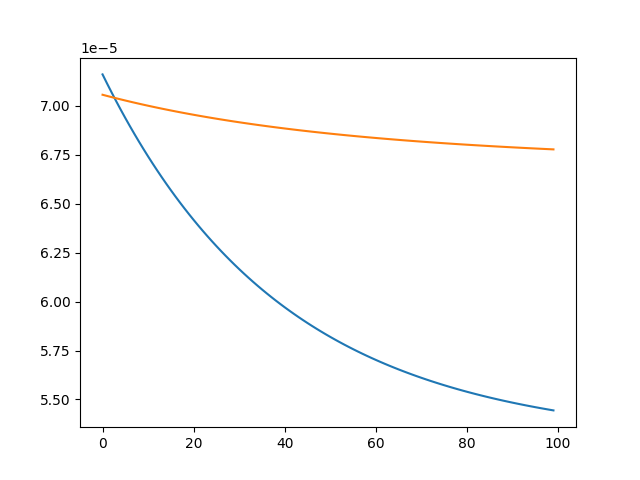
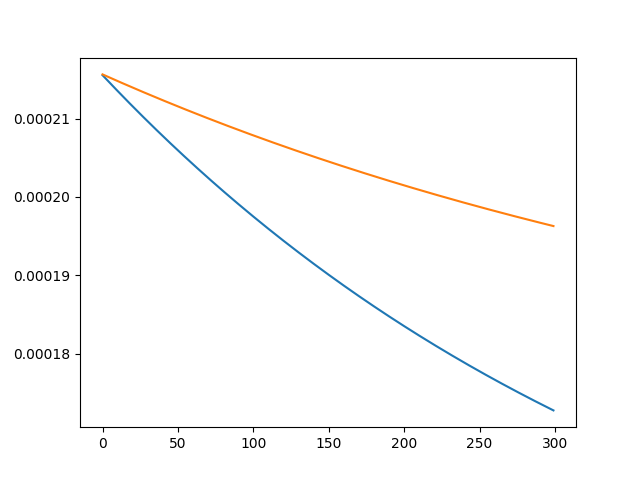
Attemped training #2

diff --git a/main.py b/main.py
@@ -32,7 +32,7 @@ MAX_AMP = 1
 # Fourier Offset - ensure that each sample subject to a fourier transform
 # transitions smoothly from the previous
 # (update to be 1/8 of sample size)
-GLOBAL_SAMP_SIZE = int(0.08 * 44100)
+GLOBAL_SAMP_SIZE = int(0.25 * 44100)
 merge = GLOBAL_SAMP_SIZE//2
 f_offset = GLOBAL_SAMP_SIZE - merge
 
@@ -192,81 +192,78 @@ def train():
     # Take in audio as input
     # getAudio (file/live = 0/1, fname)
     model = ""
-    for i in range(1, 4):
-        infname = "training/Raph_Nash_{0}.wav".format(i)
-        outfname = "training/Boris_Johnson_{0}.wav".format(i)
-        print("Getting comparable input audio")
-        t1 = time.time()
-        indata, samp_rate_input, params_in = getAudio(0, infname)
-        t2 = time.time()
-        print("Audio taken in: {0}s".format(t2 - t1))
+    infname = "training/Raph_Nash_3.wav"
+    outfname = "training/Boris_Johnson_3.wav"
+    print("Getting comparable input audio")
+    t1 = time.time()
+    indata, samp_rate_input, params_in = getAudio(0, infname)
+    t2 = time.time()
+    print("Audio taken in: {0}s".format(t2 - t1))
 
-        # Take in compared output
-        print("Getting comparable output audio")
-        t1 = time.time()
-        newvoicedata, samp_rate_newvoice, params_newvoice = getAudio(0, outfname)
-        t2 = time.time()
-        print("Audio taken in: {0}s".format(t2 - t1))
+    # Take in compared output
+    print("Getting comparable output audio")
+    t1 = time.time()
+    #newvoicedata, samp_rate_newvoice, params_newvoice = getAudio(0, outfname)
+    t2 = time.time()
+    print("Audio taken in: {0}s".format(t2 - t1))
 
-        samp_size = GLOBAL_SAMP_SIZE
+    samp_size = GLOBAL_SAMP_SIZE
 
-        print("####################################")
-        print("Input audio len (frames): {0}".format(len(indata)))
-        print("Output audio len (frames): {0}".format(len(newvoicedata)))
-        print("####################################")
+    print("####################################")
+    print("Input audio len (frames): {0}".format(len(indata)))
+    #print("Output audio len (frames): {0}".format(len(newvoicedata)))
+    print("####################################")
 
-        print("Processing 'input' audio")
-        t1 = time.time()
-        infdata = process(indata, samp_size)
-        t2 = time.time()
-        print("Input audio processed in {0}s".format(t2 - t1))
+    print("Processing 'input' audio")
+    t1 = time.time()
+    infdata = process(indata, samp_size)
+    t2 = time.time()
+    print("Input audio processed in {0}s".format(t2 - t1))
 
-        print("Processing 'output' audio")
-        t1 = time.time()
-        newvoicefdata = process(newvoicedata, samp_size)
-        t2 = time.time()
-        print("Output audio processed in {0}s".format(t2 - t1))
+    print("Processing 'output' audio")
+    t1 = time.time()
+    #newvoicefdata = process(newvoicedata, samp_size)
+    t2 = time.time()
+    print("Output audio processed in {0}s".format(t2 - t1))
 
-        print("####################################")
-        print("Input frequency samples len: {0}".format(len(infdata)))
-        print("Output frequency samples len: {0}".format(len(newvoicefdata)))
-        print("####################################")
+    print("####################################")
+    print("Input frequency samples len: {0}".format(len(infdata)))
+    #print("Output frequency samples len: {0}".format(len(newvoicefdata)))
+    print("####################################")
 
-        print("Normalizing input data (to avoid overflows)")
-        t1 = time.time()
-        infdata = infdata/np.linalg.norm(infdata)
-        t2 = time.time()
-        print("Done: {0}s".format(t2 - t1))
+    print("Normalizing input data (to avoid overflows)")
+    t1 = time.time()
+    norm = np.linalg.norm(infdata)
+    infdata = infdata/norm
+    t2 = time.time()
+    print("Done: {0}s".format(t2 - t1))
 
-        print("Normalizing output data (to avoid overflows)")
-        t1 = time.time()
-        norm = np.linalg.norm(newvoicefdata)
-        newvoicefdata = newvoicefdata/np.linalg.norm(newvoicefdata)
-        t2 = time.time()
-        print("Done: {0}s".format(t2 - t1))
+    print("Normalizing output data (to avoid overflows)")
+    t1 = time.time()
+    #norm = np.linalg.norm(newvoicefdata)
+    #newvoicefdata = newvoicefdata/np.linalg.norm(newvoicefdata)
+    t2 = time.time()
+    print("Done: {0}s".format(t2 - t1))
 
-        print("input vector size: {0}".format(infdata.shape[0]))
-        print("output vector size: {0}".format(newvoicefdata.shape[0]))
+    print("input vector size: {0}".format(infdata.shape[0]))
+    #print("output vector size: {0}".format(newvoicefdata.shape[0]))
 
-        print("Commencing RNN training")
-        internals = newvoicefdata.shape[0]
-        if(i == 1):
-            model = LSTM(newvoicefdata.shape[0], newvoicefdata.shape[0], [internals], [internals], [internals], [internals])
+    print("Commencing RNN training")
+    internals = infdata.shape[0]
+    model = LSTM(internals, internals, [internals], [internals], [internals], [internals])
 
-        """
-        if(os.path.exists("boris_params.txt") and i == 1):
+    if(os.path.exists("boris_params.txt")):
         model.load_parameters("boris_params.txt")
-        """
 
-        t1 = time.time()
-        model.train(infdata, newvoicefdata, 10, 1, 100)
-        t2 = time.time()
-        print("Trained in {0}s".format(t2-t1))
-        print("Saving parameters...")
-        t1 = time.time()
-        model.save_parameters("boris_params.txt")
-        t2 = time.time()
-        print("Saved. Time taken: {0}s".format(t2 - t1))
+    t1 = time.time()
+    #model.train(infdata, newvoicefdata, 10, 1, 300)
+    t2 = time.time()
+    print("Trained in {0}s".format(t2-t1))
+    print("Saving parameters...")
+    t1 = time.time()
+    model.save_parameters("boris_params.txt")
+    t2 = time.time()
+    print("Saved. Time taken: {0}s".format(t2 - t1))
 
     print("Creating test output based on training input")
     t1 = time.time()

diff --git a/LSTM.py b/LSTM.py
@@ -522,7 +522,7 @@ class LSTM():
             new_param = np.empty((0, 0))
             line = f.readline()
             i = 0
-            while (line[0] != '_'):
+            while (len(line) > 0 and line[0] != '_'):
                 row = line.replace("\n","").split(",")
                 row = [float(i) for i in row]
                 row = np.array(row)
